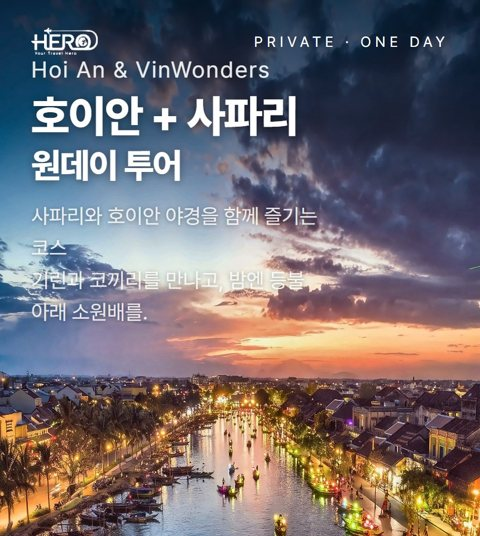
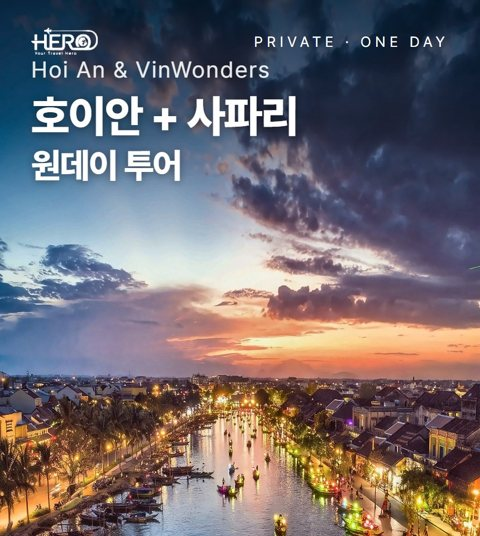
표지 사진 위 설명 문구·칩 삭제(10종) — 고객 마무리 요청

diff --git a/best-family/index.html b/best-family/index.html
@@ -190,6 +190,8 @@ section img:not([alt="HERO"]){width:100%;height:auto!important;max-height:1000px
 .cover h1{font-size:72px}.cover h1 em{font-size:56px}
 .cv-sub{max-width:560px}
 .chips{margin-top:26px}
+/* 11/02 고객 요청: 표지 사진 위 설명 문구·칩은 모두 삭제(로고·팩 이름만) */
+.cover .cv-sub,.cover .chips{display:none!important}
 /* 일차 헤더: 표지와 같은 860×1240 박스, 하늘 확장 사진, 글자는 위쪽 하늘 */
 .dayhead{height:960px!important;overflow:hidden}
 .dayhead>img{position:absolute!important;inset:0!important;width:100%;height:100%!important;object-fit:cover!important;max-height:none!important}

diff --git a/best-rest/index.html b/best-rest/index.html
@@ -190,6 +190,8 @@ section img:not([alt="HERO"]){width:100%;height:auto!important;max-height:1000px
 .cover h1{font-size:72px}.cover h1 em{font-size:56px}
 .cv-sub{max-width:560px}
 .chips{margin-top:26px}
+/* 11/02 고객 요청: 표지 사진 위 설명 문구·칩은 모두 삭제(로고·팩 이름만) */
+.cover .cv-sub,.cover .chips{display:none!important}
 /* 일차 헤더: 표지와 같은 860×1240 박스, 하늘 확장 사진, 글자는 위쪽 하늘 */
 .dayhead{height:960px!important;overflow:hidden}
 .dayhead>img{position:absolute!important;inset:0!important;width:100%;height:100%!important;object-fit:cover!important;max-height:none!important}

diff --git a/best-value/index.html b/best-value/index.html
@@ -190,6 +190,8 @@ section img:not([alt="HERO"]){width:100%;height:auto!important;max-height:1000px
 .cover h1{font-size:72px}.cover h1 em{font-size:56px}
 .cv-sub{max-width:560px}
 .chips{margin-top:26px}
+/* 11/02 고객 요청: 표지 사진 위 설명 문구·칩은 모두 삭제(로고·팩 이름만) */
+.cover .cv-sub,.cover .chips{display:none!important}
 /* 일차 헤더: 표지와 같은 860×1240 박스, 하늘 확장 사진, 글자는 위쪽 하늘 */
 .dayhead{height:960px!important;overflow:hidden}
 .dayhead>img{position:absolute!important;inset:0!important;width:100%;height:100%!important;object-fit:cover!important;max-height:none!important}

diff --git a/day-bana/index.html b/day-bana/index.html
@@ -190,6 +190,8 @@ section img:not([alt="HERO"]){width:100%;height:auto!important;max-height:1000px
 .cover h1{font-size:72px}.cover h1 em{font-size:56px}
 .cv-sub{max-width:560px}
 .chips{margin-top:26px}
+/* 11/02 고객 요청: 표지 사진 위 설명 문구·칩은 모두 삭제(로고·팩 이름만) */
+.cover .cv-sub,.cover .chips{display:none!important}
 /* 일차 헤더: 표지와 같은 860×1240 박스, 하늘 확장 사진, 글자는 위쪽 하늘 */
 .dayhead{height:960px!important;overflow:hidden}
 .dayhead>img{position:absolute!important;inset:0!important;width:100%;height:100%!important;object-fit:cover!important;max-height:none!important}

diff --git a/day-hoian/index.html b/day-hoian/index.html
@@ -190,6 +190,8 @@ section img:not([alt="HERO"]){width:100%;height:auto!important;max-height:1000px
 .cover h1{font-size:72px}.cover h1 em{font-size:56px}
 .cv-sub{max-width:560px}
 .chips{margin-top:26px}
+/* 11/02 고객 요청: 표지 사진 위 설명 문구·칩은 모두 삭제(로고·팩 이름만) */
+.cover .cv-sub,.cover .chips{display:none!important}
 /* 일차 헤더: 표지와 같은 860×1240 박스, 하늘 확장 사진, 글자는 위쪽 하늘 */
 .dayhead{height:960px!important;overflow:hidden}
 .dayhead>img{position:absolute!important;inset:0!important;width:100%;height:100%!important;object-fit:cover!important;max-height:none!important}

diff --git a/day-hue/index.html b/day-hue/index.html
@@ -190,6 +190,8 @@ section img:not([alt="HERO"]){width:100%;height:auto!important;max-height:1000px
 .cover h1{font-size:72px}.cover h1 em{font-size:56px}
 .cv-sub{max-width:560px}
 .chips{margin-top:26px}
+/* 11/02 고객 요청: 표지 사진 위 설명 문구·칩은 모두 삭제(로고·팩 이름만) */
+.cover .cv-sub,.cover .chips{display:none!important}
 /* 일차 헤더: 표지와 같은 860×1240 박스, 하늘 확장 사진, 글자는 위쪽 하늘 */
 .dayhead{height:960px!important;overflow:hidden}
 .dayhead>img{position:absolute!important;inset:0!important;width:100%;height:100%!important;object-fit:cover!important;max-height:none!important}

diff --git a/day-onsen/index.html b/day-onsen/index.html
@@ -190,6 +190,8 @@ section img:not([alt="HERO"]){width:100%;height:auto!important;max-height:1000px
 .cover h1{font-size:72px}.cover h1 em{font-size:56px}
 .cv-sub{max-width:560px}
 .chips{margin-top:26px}
+/* 11/02 고객 요청: 표지 사진 위 설명 문구·칩은 모두 삭제(로고·팩 이름만) */
+.cover .cv-sub,.cover .chips{display:none!important}
 /* 일차 헤더: 표지와 같은 860×1240 박스, 하늘 확장 사진, 글자는 위쪽 하늘 */
 .dayhead{height:960px!important;overflow:hidden}
 .dayhead>img{position:absolute!important;inset:0!important;width:100%;height:100%!important;object-fit:cover!important;max-height:none!important}

diff --git a/day-safari/index.html b/day-safari/index.html
@@ -190,6 +190,8 @@ section img:not([alt="HERO"]){width:100%;height:auto!important;max-height:1000px
 .cover h1{font-size:72px}.cover h1 em{font-size:56px}
 .cv-sub{max-width:560px}
 .chips{margin-top:26px}
+/* 11/02 고객 요청: 표지 사진 위 설명 문구·칩은 모두 삭제(로고·팩 이름만) */
+.cover .cv-sub,.cover .chips{display:none!important}
 /* 일차 헤더: 표지와 같은 860×1240 박스, 하늘 확장 사진, 글자는 위쪽 하늘 */
 .dayhead{height:960px!important;overflow:hidden}
 .dayhead>img{position:absolute!important;inset:0!important;width:100%;height:100%!important;object-fit:cover!important;max-height:none!important}

diff --git a/day-vinwonders/index.html b/day-vinwonders/index.html
@@ -190,6 +190,8 @@ section img:not([alt="HERO"]){width:100%;height:auto!important;max-height:1000px
 .cover h1{font-size:72px}.cover h1 em{font-size:56px}
 .cv-sub{max-width:560px}
 .chips{margin-top:26px}
+/* 11/02 고객 요청: 표지 사진 위 설명 문구·칩은 모두 삭제(로고·팩 이름만) */
+.cover .cv-sub,.cover .chips{display:none!important}
 /* 일차 헤더: 표지와 같은 860×1240 박스, 하늘 확장 사진, 글자는 위쪽 하늘 */
 .dayhead{height:960px!important;overflow:hidden}
 .dayhead>img{position:absolute!important;inset:0!important;width:100%;height:100%!important;object-fit:cover!important;max-height:none!important}

diff --git a/final/index.html b/final/index.html
@@ -190,6 +190,8 @@ section img:not([alt="HERO"]){width:100%;height:auto!important;max-height:1000px
 .cover h1{font-size:72px}.cover h1 em{font-size:56px}
 .cv-sub{max-width:560px}
 .chips{margin-top:26px}
+/* 11/02 고객 요청: 표지 사진 위 설명 문구·칩은 모두 삭제(로고·팩 이름만) */
+.cover .cv-sub,.cover .chips{display:none!important}
 /* 일차 헤더: 표지와 같은 860×1240 박스, 하늘 확장 사진, 글자는 위쪽 하늘 */
 .dayhead{height:960px!important;overflow:hidden}
 .dayhead>img{position:absolute!important;inset:0!important;width:100%;height:100%!important;object-fit:cover!important;max-height:none!important}
